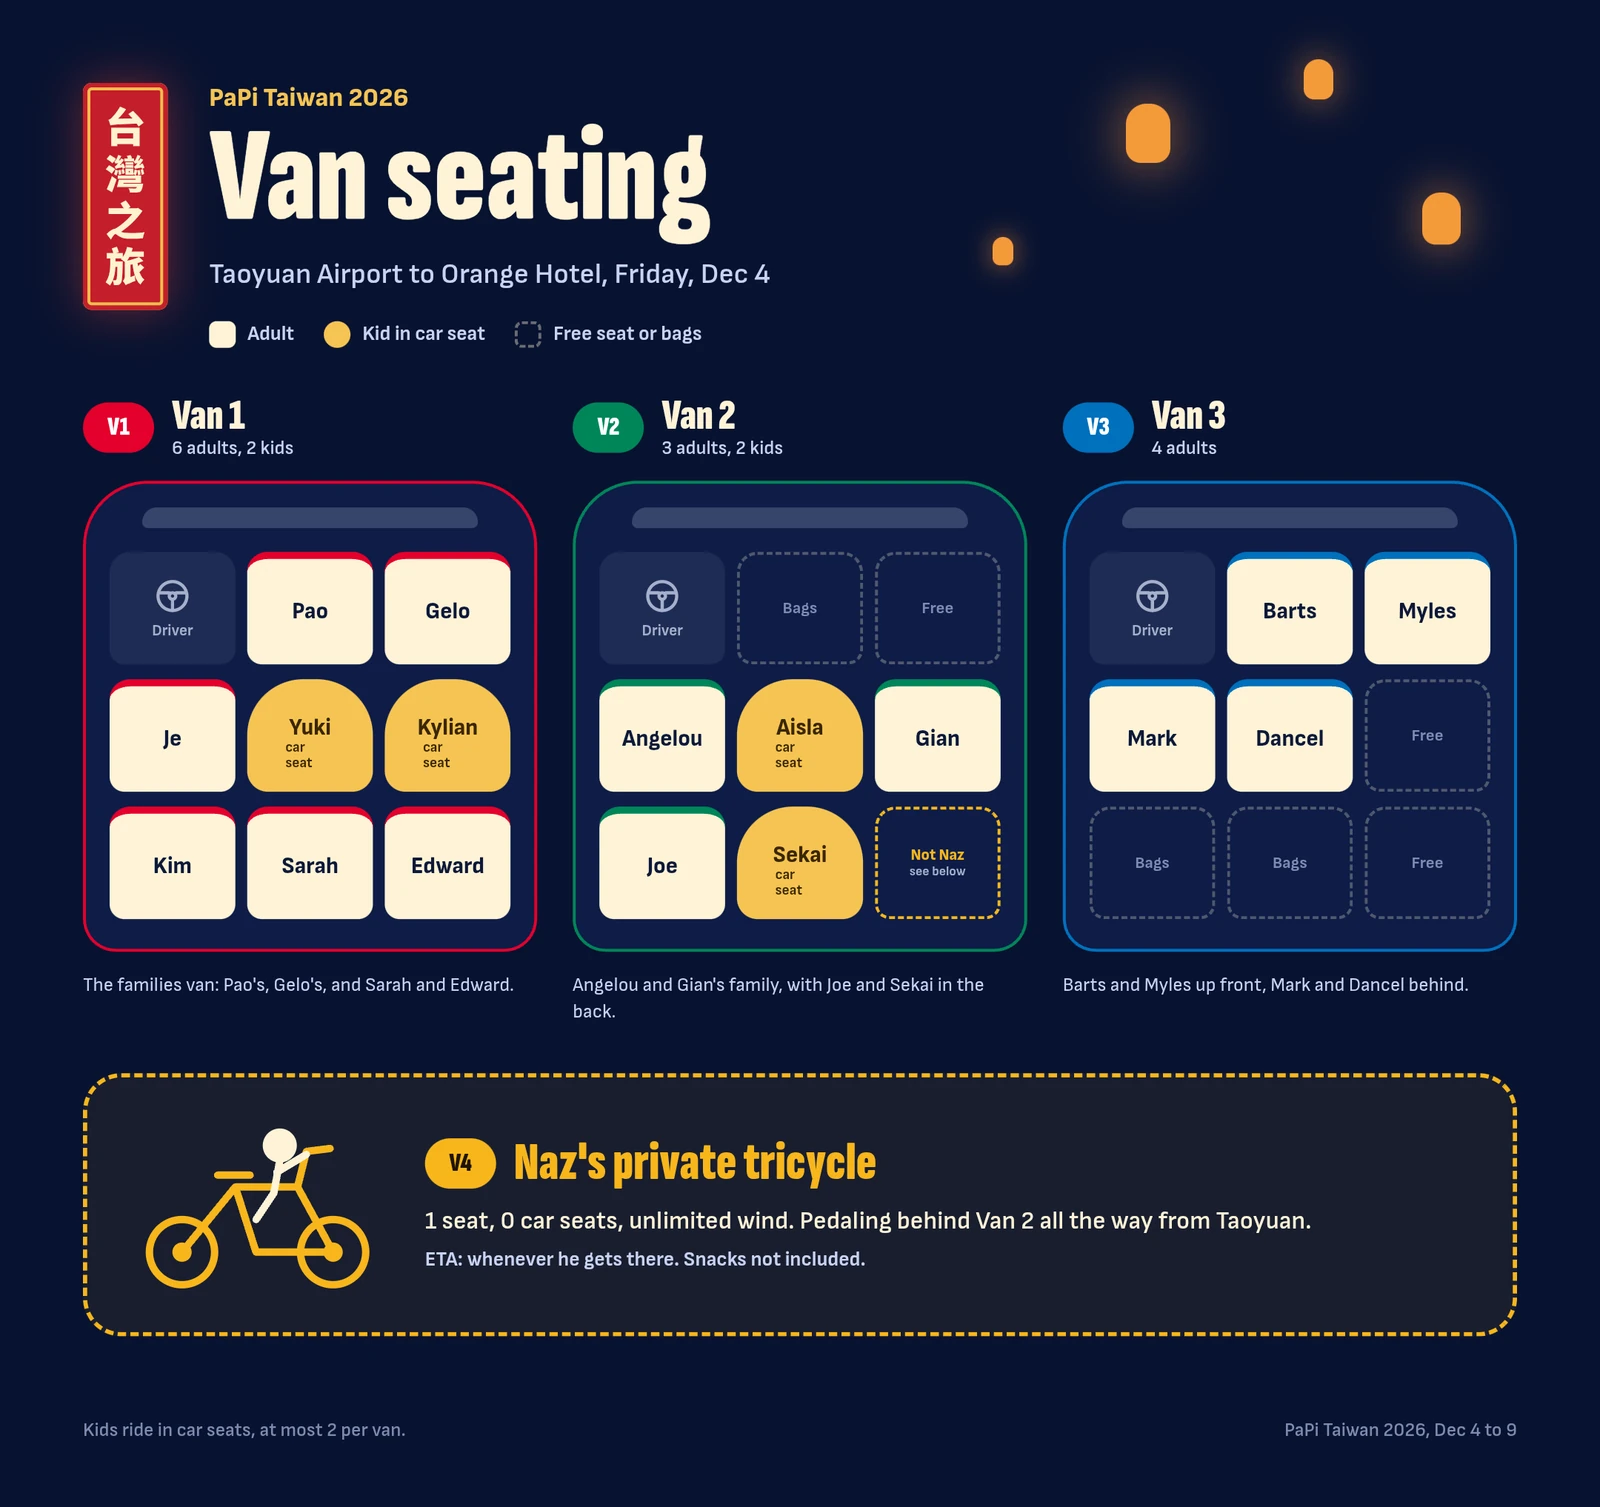
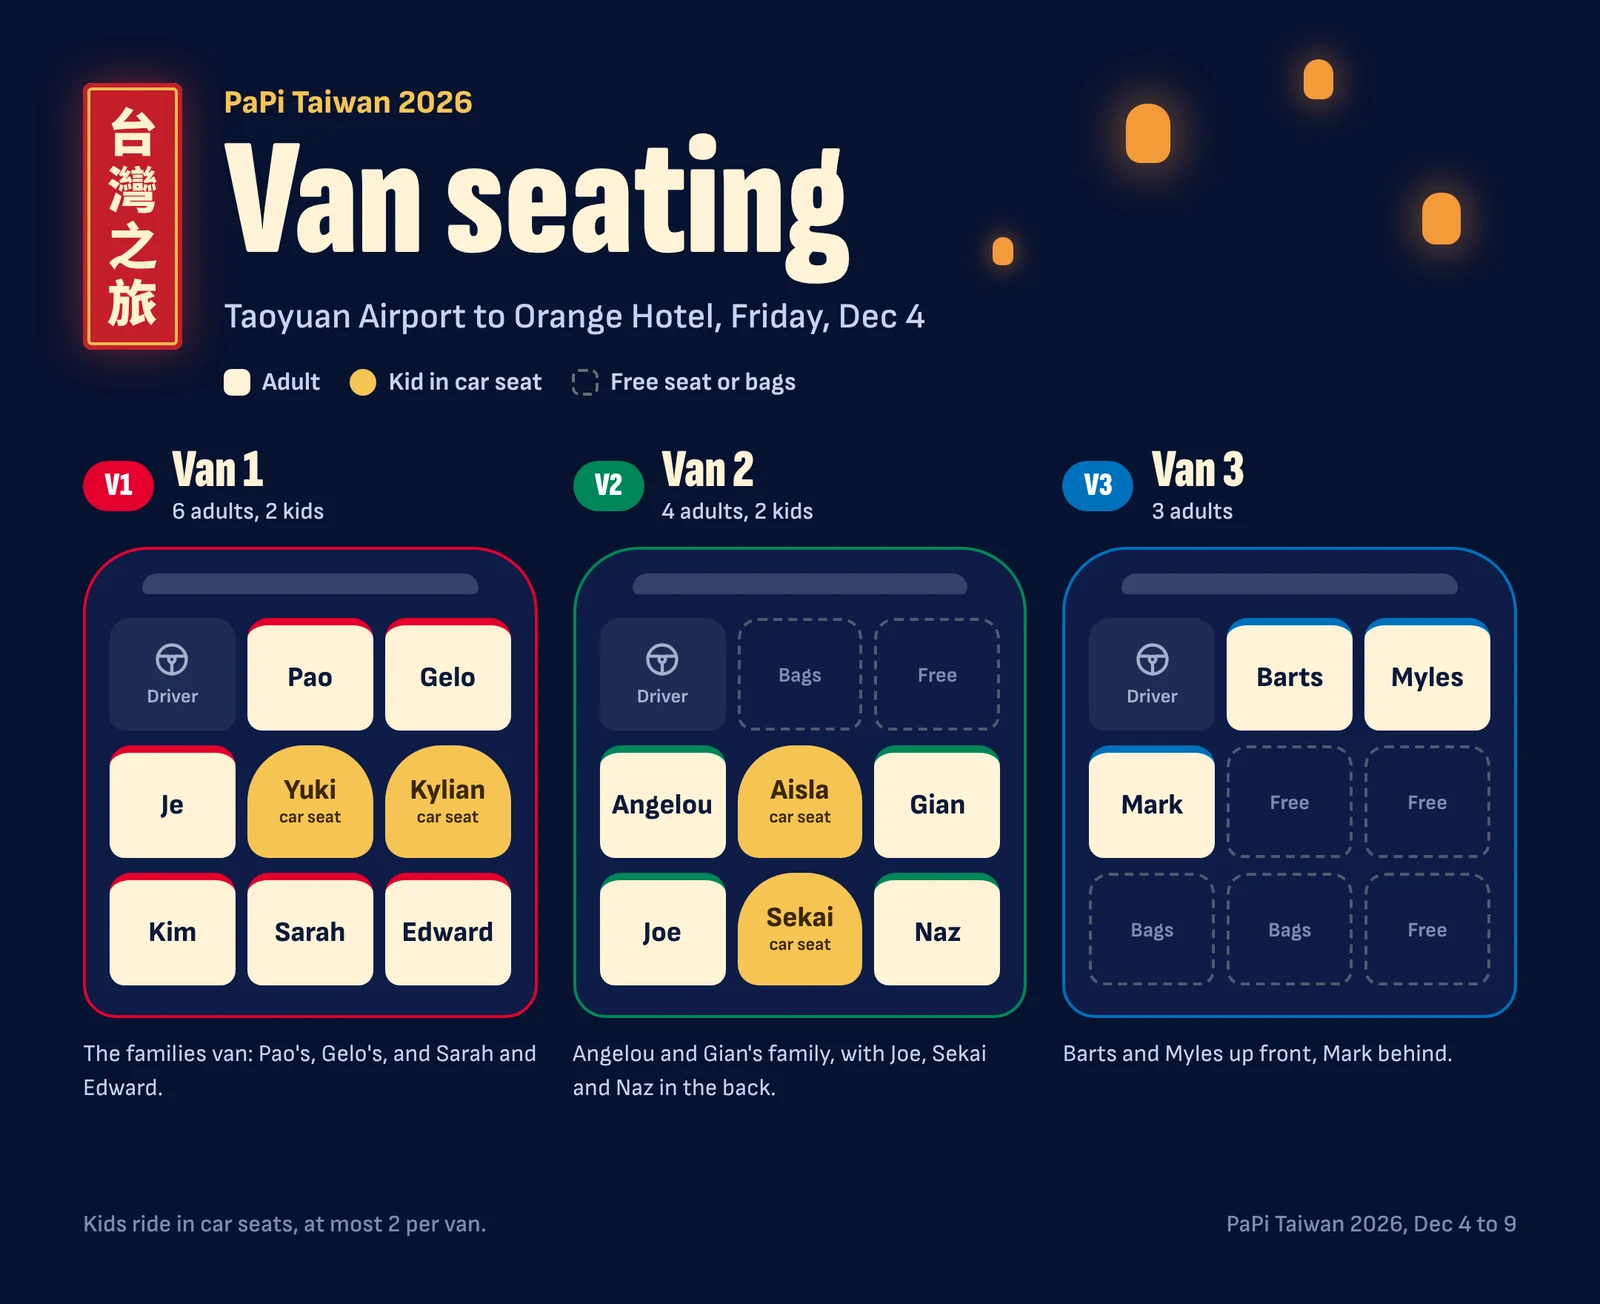
Dancel is out, Naz is in: still 13 adults
- Who pays what: Joe and Naz with Sekai; Mark on his own
- Seating chart: Naz sits with Joe and Sekai in Van 2, Dancel's seat in
  Van 3 is free, and the tricycle joke is gone

Claude-Session: https://claude.ai/code/session_01KB1jmhfCUsJpm49JGQvRH2

diff --git a/assets/data.js b/assets/data.js
@@ -15,9 +15,9 @@ window.TRIP = {
 
   // Van seating chart for the airport-to-hotel ride, shown on Day 1
   seating: {
-    src: "assets/van-seating.webp", w: 1600, h: 1507,
+    src: "assets/van-seating.webp", w: 1600, h: 1304,
     caption: "Who rides where from the airport. Tap to see it bigger.",
-    alt: "Van seating chart. Van 1: Pao and Gelo in front; Je, Yuki and Kylian in the middle; Kim, Sarah and Edward in the back. Van 2: Angelou, Aisla and Gian in the middle; Joe and Sekai in the back. Van 3: Barts and Myles in front; Mark and Dancel in the middle. Naz follows on his own tricycle, as a joke."
+    alt: "Van seating chart. Van 1: Pao and Gelo in front; Je, Yuki and Kylian in the middle; Kim, Sarah and Edward in the back. Van 2: Angelou, Aisla and Gian in the middle; Joe, Sekai and Naz in the back. Van 3: Barts and Myles in front; Mark in the middle."
   },
 
   // Live countdown on the cover. Update "to" and "note" once the flight is booked (Taipei time, +08:00).
@@ -46,10 +46,10 @@ window.TRIP = {
     { names: "Pao and Je", adults: 2, kids: [{ name: "Yuki" }] },
     { names: "Kim and Gelo", adults: 2, kids: [{ name: "Kylian" }] },
     { names: "Angelou and Gian", adults: 2, kids: [{ name: "Aisla" }] },
-    { names: "Joe", adults: 1, kids: [{ name: "Sekai" }] },
+    { names: "Joe and Naz", adults: 2, kids: [{ name: "Sekai" }] },
     { names: "Sarah and Edward", adults: 2 },
     { names: "Barts and Myles", adults: 2 },
-    { names: "Mark and Dancel", adults: 2 }
+    { names: "Mark", adults: 1 }
   ],
 
   // One Taipei-MRT-style line per day

diff --git a/sw.js b/sw.js
@@ -1,7 +1,7 @@
 /* PaPi Taiwan 2026 — offline support.
    The site keeps working with weak signal: pages come from the network first, then from this cache.
    Bump VERSION whenever site files change. */
-const VERSION = 'papi-2026-v12';
+const VERSION = 'papi-2026-v13';
 const PHOTOS = 'papi-photos-v1';
 const CORE = [
   './',
